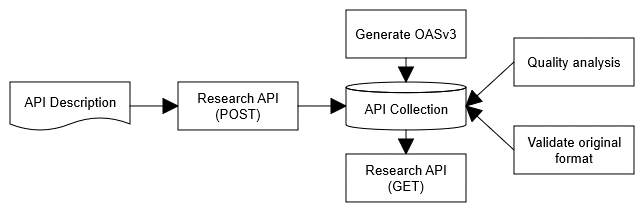
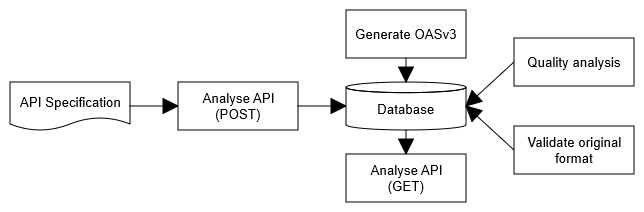
Updates

diff --git a/index.md b/index.md
@@ -11,94 +11,3 @@ In het kader van het [Kennisplatform API's](https://www.geonovum.nl/themas/kenni
 Omdat tijdens het onderzoek al snel bleek dat het moeilijk is om overheids API's te vinden, is er besloten om dit levende document in het leven te roepen waar gaandeweg API's aan toegevoegd kunnen worden die automatisch meegenomen worden in de analyse en de daaropvolgende rapportage.
 
 Nieuwe API's kunnen worden toegevoegd via de [OAS Onderzoek API](https://rebilly.github.io/ReDoc/?url=https://geonovum.github.io/oas-verkenning/assets/openapi.yaml&nocors). Deze API valideert en analyseert bestaande API specificaties, genereert (indien mogelijk) een OASv3 specificatie en kan deze vervolgens toetsen op de mate waarin het API design overeenkomt met de [NL API Strategie](https://docs.geostandaarden.nl/api/API-Strategie/). Meer informatie over hoe de OAS Onderzoek API te gebruiken is, is te vinden in de bijbehorende [API Documentatie](https://rebilly.github.io/ReDoc/?url=https://geonovum.github.io/oas-verkenning/assets/openapi.yaml&nocors). Onderstaande afbeelding geeft het proces weer.
-
-![proces](assets/process.png)
-
-{% assign totalCount = site.data.apis.size %}
-{% assign organisations = '' %}
-{% for api in site.data.apis %}
-  {% assign organisations = organisations | append: api.organisation | append: '_|_' %}
-{% endfor %}
-{% assign organisations = organisations | split: "_|_" | uniq %}
-
-## Statistieken per API
-
-Tot nu toe zijn de onderstaande **{{ totalCount }}** API's geanalyseerd, van de volgende **{{ organisations.size }}** verschillende organisatie's: 
-{{ organisations | sort | join: ", " }}.
-
-<table>
-  <thead>
-    <tr>
-      <th>Titel</th>
-      <th>Formaat</th>
-      <th>Errors</th>
-      <th>Warnings</th>
-      <th>Notices</th>
-      <th>OASv3</th>
-    </tr>
-  </thead>
-  <tbody>
-    {% assign errors = 0 %}
-    {% assign notices = 0 %}
-    {% assign warnings = 0 %}
-    {% assign valid = 0 %}
-    {% assign api_blueprint = 0 %}
-    {% assign swagger = 0 %}
-    {% assign openapi_3 = 0 %}
-    {% assign postman = 0 %}
-    {% assign raml = 0 %}
-    {% assign asyncapi_1 = 0 %}
-    {% for api in site.data.apis %}
-    {% if api.inputValidation.errors.size > 0 %}
-      {% assign errors = errors | plus: 1 %}
-    {% endif %}
-    {% if api.inputValidation.notices.size > 0 %}
-      {% assign notices = notices | plus: 1 %}
-    {% endif %}
-    {% if api.inputValidation.warnings.size > 0 %}
-      {% assign warnings = warnings | plus: 1 %}
-    {% endif %}
-    {% if api.inputValidation.errors.size == 0 %}
-      {% assign valid = valid | plus: 1 %}
-    {% endif %}
-    {% if api.descriptionFormat == 'api_blueprint' %}
-      {% assign api_blueprint = api_blueprint | plus: 1 %}
-    {% endif %}
-    {% if api.descriptionFormat == 'swagger_1' or api.descriptionFormat == 'swagger_2' %}
-      {% assign swagger = swagger | plus: 1 %}
-    {% endif %}
-    {% if api.descriptionFormat == 'openapi_3' %}
-      {% assign openapi_3 = openapi_3 | plus: 1 %}
-    {% endif %}
-    {% if api.descriptionFormat == 'raml' %}
-      {% assign raml = raml | plus: 1 %}
-    {% endif %}
-    {% if api.descriptionFormat == 'asyncapi_1' %}
-      {% assign asyncapi_1 = asyncapi_1 | plus: 1 %}
-    {% endif %}
-    {% if api.descriptionFormat == 'postman' %}
-      {% assign postman = postman | plus: 1 %}
-    {% endif %}
-    <tr>
-      <td>{{ api.title }}</td>
-      <td>{{ api.descriptionFormat }}</td>
-      <td>{{ api.inputValidation.errors.size }}</td>
-      <td>{{ api.inputValidation.warnings.size }}</td>
-      <td>{{ api.inputValidation.notices.size }}</td>
-      <td>{% if api._links.openapiYaml %}<a href="{{ api._links.openapiYaml.href }}">YAML</a> - <a href="{{ api._links.openapiJson.href }}">JSON</a>{% endif %}</td>
-    </tr>
-    {% endfor %}
-  </tbody>
-</table>
-
-## Algemene validatie statistieken
-
-|Errors|Warnings|Notices|Valid|
-|-|-|-|-|-|
-|{{ errors }} ({{ errors | times: 1.0 | divided_by: totalCount | times: 100 | round: 0 }}%)|{{ warnings }} ({{ warnings | times: 1.0 | divided_by: totalCount | times: 100 | round: 0 }}%)|{{ notices }} ({{ notices | times: 1.0 | divided_by: totalCount | times: 100 | round: 0 }}%)|{{ valid }} ({{ valid | times: 1.0 | divided_by: totalCount | times: 100 | round: 0 }}%)|
-
-## Gebruikte API specificatie standaard
-
-|API Blueprint|RAML|Swagger|OpenAPI 3|Postman|Async API|
-|-|-|-|-|-|-|-|
-|{{ api_blueprint }} ({{ api_blueprint | times: 1.0 | divided_by: totalCount | times: 100 | round: 0 }}%)|{{ raml }} ({{ raml | times: 1.0 | divided_by: totalCount | times: 100 | round: 0 }}%)|{{ swagger }} ({{ swagger | times: 1.0 | divided_by: totalCount | times: 100 | round: 0 }}%)|{{ openapi_3 }} ({{ openapi_3 | times: 1.0 | divided_by: totalCount | times: 100 | round: 0 }}%)|{{ postman }} ({{ postman | times: 1.0 | divided_by: totalCount | times: 100 | round: 0 }}%)|{{ asyncapi_1 }} ({{ asyncapi_1 | times: 1.0 | divided_by: totalCount | times: 100 | round: 0 }}%)

diff --git a/uitleg.md b/uitleg.md
@@ -1,0 +1,42 @@
+---
+layout: home
+title: Uitleg
+---
+
+## Analyse Tool
+
+De resultaten van het [rapport](rapport.html) worden geautomatiseerd bijgewerkt door de Analyse Tool. Om deze tool een API Specificatie te laten analyseren kan er, via onze [Analyse API](docs.html), een link naar de API specificatie verzonden worden. Hieronder wordt het hele proces stap voor stap beschreven:
+
+![proces](assets/process.png)
+
+1. De locatie van de oorspronkelijke API Specificatie wordt, samen met aanvullende informatie, via een `POST` request naar de Analyse API gestuurd. Momenteel worden de volgende API Specificatie formaten ondersteund:
+   - [API Blueprint](https://apiblueprint.org/documentation/specification.html)
+   - [RAML](https://github.com/raml-org/raml-spec/blob/master/versions/raml-10/raml-10.md)
+   - [Postman](https://schema.getpostman.com/json/collection/v2.0.0/docs/index.html)
+   - [AsyncAPI 1.x](https://www.asyncapi.com/docs/specifications/1.2.0/)
+   - [Swagger 1.x](https://github.com/OAI/OpenAPI-Specification/blob/master/versions/1.2.md)
+   - [Swagger 2.x](https://github.com/OAI/OpenAPI-Specification/blob/master/versions/2.0.md)
+   - [Open API 3.x](https://github.com/OAI/OpenAPI-Specification/blob/master/versions/3.0.2.md)
+2. Indien de call succesvol is, wordt er een `201 Created` geretourneerd. Dit wil zeggen dat het verzoek succesvol door de Analyse API is ontvangen en dat de Analyse Tool aan de slag gaat.
+3. De oorspronkelijke API Specificatie wordt opgehaald en, indien succesvol, opgeslagen in de database. Als het bestand niet opgehaald kan worden wordt er een error genoteerd en wordt het proces afgebroken.
+4. De Analyse Tool detecteert het oorsponkelijke formaat van de API Specificatie en slaat deze op in de database.
+5. De oorspronkelijke API Specificatie wordt gevalideerd op geldigheid. Indien er fouten zitten in de oorsponkelijke API Specificatie kan de Analyse Tool niet verder met analyseren en wordt het proces afgebroken.
+6. Indien de oorspronkelijke API Specificatie geldig is wordt deze door [Apimatic](https://www.apimatic.io/) automatisch omgezet naar het `OpenAPI 3.x (OASv3)` formaat. Het resultaat hiervan wordt opgeslagen in zowel `JSON` (makkelijk voor machines) als `YAML` (makkelijk voor mensen) formaat.
+7. Nu de specificatie beschikbaar is in `OASv3` formaat kan de Analyse Tool gebruik maken van geavanceerde OpenAPI tooling zoals [Speccy](http://speccy.io/) om diepgaande kwaliteitscontroles uit te voeren. Op dit moment worden enkel de standaard geregels gechecked, dit kan later uitgebreid worden met meerdere regels zoals bijvoorbeeld de guidelines van de Nederlandse API Strategie. De resultaten van deze checks worden opgeslagen in de database.
+8. Alle resultaten worden ontsloten via een `GET` request op de Analyse API.
+
+## Errors, warnings en notices
+
+De Analyse Tool maakt een onderscheid tussen errors (fouten), warnings (waarschuwingen) en notices (notificaties). Een API Specificatie is alleen 'invalid' (ongeldig) op het moment dat er een error ontdekt wordt. Idealiter bevat een API Specificatie geen enkele error, warning of notice, maar het is wel belangrijk om verschillende niveau's te erkennen.
+
+### Error
+
+Een error treedt op als de API Specificatie invalid is en de Analyse Tool het proces niet kan afmaken. Dit is bijvoorbeeld het geval als de Analyse Tool het bestand niet kan ophalen of als het bestand niet gelezen kan worden door fouten in de syntax. Een error móet verholpen worden om te kunnen garanderen dat machines (zoals de Analyse Tool of tools die documentatie genereren) de API Specificatie kunnen interpreteren.
+
+### Warning
+
+Een warning treedt op als de Analyse Tool de API Specificatie wel kan laden, lezen en interpreteren, maar er bepaalde cruciale informatie ontbreekt dat mogelijk voor problemen bij andere tools kan zorgen omdat het afwijkt van de standaard. Een voorbeeld van een warning is dat er wel een `version` is opgenomen, maar dat het corresponderende versienummer niet conform het [SemVer](https://semver.org/) formaat is. Voorbeeld: `version: 'blabla'` in plaats van `version: '1.0.2'`.
+
+### Notice
+
+Een notice wordt geregistreerd als de API Specificatie technisch in orde en volledig door machines te begrijpen is, maar bepaalde informatie niet voldoet aan best practices voor de bruikbaarheid in de praktijk. Een voorbeeld hiervan is het ontbreken van omschrijvingen bij velden.

diff --git a/rapport.md b/rapport.md
@@ -1,0 +1,93 @@
+---
+layout: home
+title: Rapport
+---
+
+{% assign totalCount = site.data.apis.size %}
+{% assign organisations = '' %}
+{% for api in site.data.apis %}
+  {% assign organisations = organisations | append: api.organisation | append: '_|_' %}
+{% endfor %}
+{% assign organisations = organisations | split: "_|_" | uniq %}
+
+## Statistieken per API
+
+Tot nu toe zijn de onderstaande **{{ totalCount }}** API's geanalyseerd, van de volgende **{{ organisations.size }}** verschillende organisatie's: 
+{{ organisations | sort | join: ", " }}.
+
+<table>
+  <thead>
+    <tr>
+      <th>Titel</th>
+      <th>Formaat</th>
+      <th>Errors</th>
+      <th>Warnings</th>
+      <th>Notices</th>
+      <th>OASv3</th>
+    </tr>
+  </thead>
+  <tbody>
+    {% assign errors = 0 %}
+    {% assign notices = 0 %}
+    {% assign warnings = 0 %}
+    {% assign valid = 0 %}
+    {% assign api_blueprint = 0 %}
+    {% assign swagger = 0 %}
+    {% assign openapi_3 = 0 %}
+    {% assign postman = 0 %}
+    {% assign raml = 0 %}
+    {% assign asyncapi_1 = 0 %}
+    {% for api in site.data.apis %}
+    {% if api.inputValidation.errors.size > 0 %}
+      {% assign errors = errors | plus: 1 %}
+    {% endif %}
+    {% if api.inputValidation.notices.size > 0 %}
+      {% assign notices = notices | plus: 1 %}
+    {% endif %}
+    {% if api.inputValidation.warnings.size > 0 %}
+      {% assign warnings = warnings | plus: 1 %}
+    {% endif %}
+    {% if api.inputValidation.errors.size == 0 %}
+      {% assign valid = valid | plus: 1 %}
+    {% endif %}
+    {% if api.descriptionFormat == 'api_blueprint' %}
+      {% assign api_blueprint = api_blueprint | plus: 1 %}
+    {% endif %}
+    {% if api.descriptionFormat == 'swagger_1' or api.descriptionFormat == 'swagger_2' %}
+      {% assign swagger = swagger | plus: 1 %}
+    {% endif %}
+    {% if api.descriptionFormat == 'openapi_3' %}
+      {% assign openapi_3 = openapi_3 | plus: 1 %}
+    {% endif %}
+    {% if api.descriptionFormat == 'raml' %}
+      {% assign raml = raml | plus: 1 %}
+    {% endif %}
+    {% if api.descriptionFormat == 'asyncapi_1' %}
+      {% assign asyncapi_1 = asyncapi_1 | plus: 1 %}
+    {% endif %}
+    {% if api.descriptionFormat == 'postman' %}
+      {% assign postman = postman | plus: 1 %}
+    {% endif %}
+    <tr>
+      <td>{{ api.title }} <a href="{{ api._links.self.href }}">{% octicon link-external %}</a></td>
+      <td>{{ api.descriptionFormat }}</td>
+      <td>{{ api.inputValidation.errors.size }}</td>
+      <td>{{ api.inputValidation.warnings.size }}</td>
+      <td>{{ api.inputValidation.notices.size }}</td>
+      <td>{% if api._links.openapiYaml %}<a href="{{ api._links.openapiYaml.href }}">YAML</a> - <a href="{{ api._links.openapiJson.href }}">JSON</a>{% endif %}</td>
+    </tr>
+    {% endfor %}
+  </tbody>
+</table>
+
+## Algemene validatie statistieken
+
+|Errors|Warnings|Notices|Valid|
+|-|-|-|-|-|
+|{{ errors }} ({{ errors | times: 1.0 | divided_by: totalCount | times: 100 | round: 0 }}%)|{{ warnings }} ({{ warnings | times: 1.0 | divided_by: totalCount | times: 100 | round: 0 }}%)|{{ notices }} ({{ notices | times: 1.0 | divided_by: totalCount | times: 100 | round: 0 }}%)|{{ valid }} ({{ valid | times: 1.0 | divided_by: totalCount | times: 100 | round: 0 }}%)|
+
+## Gebruikte API specificatie standaard
+
+|API Blueprint|RAML|Swagger|OpenAPI 3|Postman|Async API|
+|-|-|-|-|-|-|-|
+|{{ api_blueprint }} ({{ api_blueprint | times: 1.0 | divided_by: totalCount | times: 100 | round: 0 }}%)|{{ raml }} ({{ raml | times: 1.0 | divided_by: totalCount | times: 100 | round: 0 }}%)|{{ swagger }} ({{ swagger | times: 1.0 | divided_by: totalCount | times: 100 | round: 0 }}%)|{{ openapi_3 }} ({{ openapi_3 | times: 1.0 | divided_by: totalCount | times: 100 | round: 0 }}%)|{{ postman }} ({{ postman | times: 1.0 | divided_by: totalCount | times: 100 | round: 0 }}%)|{{ asyncapi_1 }} ({{ asyncapi_1 | times: 1.0 | divided_by: totalCount | times: 100 | round: 0 }}%)

diff --git a/openapi.md b/openapi.md
@@ -1,0 +1,6 @@
+---
+layout: home
+title: OpenAPI
+---
+
+API specificaties toevoegen, valideren en transformeren naar OASv3 kan via de open OAS Onderzoek API. Via deze API is alle informatie die op deze site gevisualiseerd is ook op te vragen. Zie de [API Reference](https://rebilly.github.io/ReDoc/?url=https://geonovum.github.io/oas-verkenning/assets/openapi.yaml&nocors) voor meer informatie over de OAS Onderzoek API.
